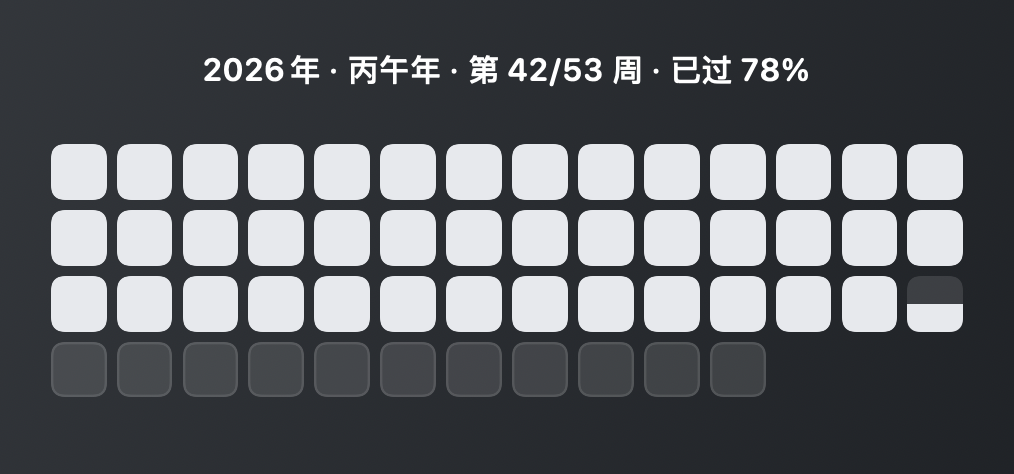
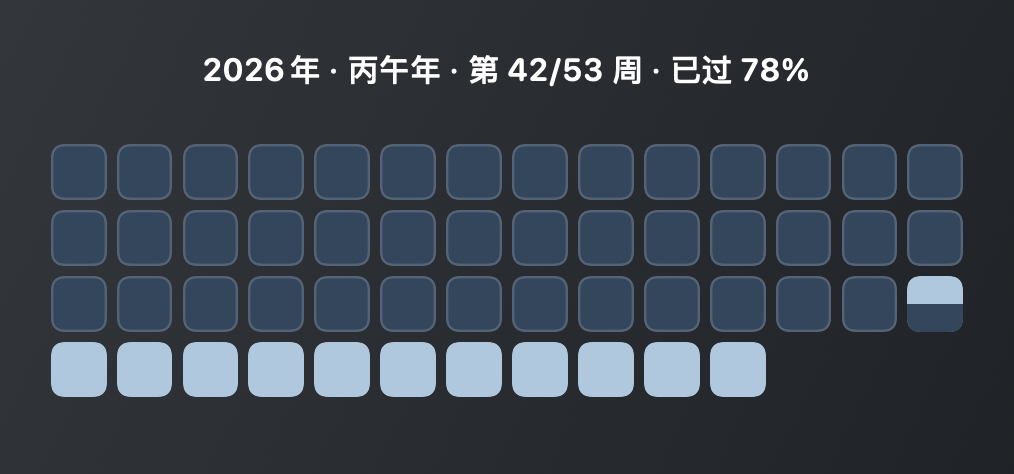
feat(widget): 小组件方块改用与面板相同的两种颜色

diff --git a/Sources/YearProgressUI/CardTheme.swift b/Sources/YearProgressUI/CardTheme.swift
@@ -48,7 +48,7 @@ public enum CardTheme: String, CaseIterable, Identifiable, Sendable {
         case .violet: return Color(red: 0.184, green: 0.118, blue: 0.341)   // #2F1E57 深梅子
         case .graphite: return Color(red: 0.200, green: 0.275, blue: 0.361) // #33465C 深石板蓝
         case .system: return .primary                                        // 深色模式下自动变白
-        case .slate: return Color(red: 0.906, green: 0.914, blue: 0.929)     // #E7E9ED 岩灰白
+        case .slate: return Color(red: 0.200, green: 0.275, blue: 0.361)     // #33465C 深石板蓝（同面板）
         }
     }
 
@@ -58,7 +58,7 @@ public enum CardTheme: String, CaseIterable, Identifiable, Sendable {
         case .violet: return Color(red: 0.812, green: 0.749, blue: 0.973)   // #CFBFF8 浅薰衣草
         case .graphite: return Color(red: 0.686, green: 0.784, blue: 0.871) // #AFC8DE 浅冰蓝
         case .system: return Color.primary.opacity(0.12)                     // 系统填充色
-        case .slate: return Color.white.opacity(0.12)                        // 暗底上的浅色填充
+        case .slate: return Color(red: 0.686, green: 0.784, blue: 0.871)     // #AFC8DE 浅冰蓝（同面板）
         }
     }
 
@@ -66,16 +66,15 @@ public enum CardTheme: String, CaseIterable, Identifiable, Sendable {
     public var pastStroke: Color? {
         switch self {
         case .violet: return nil
-        case .graphite: return Color.white.opacity(0.16)
-        case .system, .slate: return nil
+        case .graphite, .slate: return Color.white.opacity(0.16)
+        case .system: return nil
         }
     }
     /// 浅色块不需要描边（同色系之后不再「发胀」）。
     public var futureStroke: Color? {
         switch self {
         case .system: return Color.primary.opacity(0.14)
-        case .slate: return Color.white.opacity(0.10)
-        default: return nil
+        default: return nil        // graphite / slate：浅色块本身够亮，不需要描边
         }
     }
 

diff --git a/PLAN.md b/PLAN.md
@@ -172,7 +172,7 @@ public struct YearProgress {
   石墨主题另外给深色块加 1px 半透明描边，防止与卡片底色粘连。
 - 圆角：`s * 0.22`；间距随尺寸缩放，整体气质偏克制、无阴影堆叠。
 - 信息层：**顶部一行居中** —— 年份 · 干支 · `第 42/53 周` · `已过 78%`；跨年周时补一行小字。
-- **系统小组件固定用暗岩灰底色**（`#33363B → #202327`）+ 浅色方块，菜单里的主题/尺寸只作用于桌面挂件。
+- **系统小组件固定用暗岩灰底色**（`#33363B → #202327`）+ 与面板相同的方块色（`#33465C` / `#AFC8DE`），菜单里的主题/尺寸只作用于桌面挂件。
 - 桌面挂件的网格**复用系统中号小组件的行列**（`WidgetGridReference`，按 338×158 基准推算）：
   53 周 = 14 列 × 4 行（末行 11 块），52 周 = 13 列 × 4 行。
 - 桌面挂件默认 **小尺寸 330×161 + 石墨主题**，永久锚定主屏右上角（卡片距右/上各 24pt）；

diff --git a/README.md b/README.md
@@ -47,7 +47,7 @@ make spec       # 重新生成 spec/year-weeks.json（跨平台真值表）
 
 > **菜单里的主题 / 尺寸只作用于桌面挂件**。桌面挂件的网格行列**复用系统中号小组件的布局**
 > （53 周年份：14 列 × 4 行、末行 11 块；52 周年份：13 列 × 4 行），所以两边看起来是同一张表。
-> 系统小组件固定使用 **暗岩灰底色**（`#33363B → #202327`）+ 浅色方块，不跟面板的紫色/石墨联动。
+> 系统小组件固定使用 **暗岩灰底色**（`#33363B → #202327`）+ **与面板石墨主题同一对方块色**（`#33465C` / `#AFC8DE`），不跟面板的主题/尺寸联动。
 
 桌面挂件默认：**小尺寸 330×161 + 石墨主题**，并且**永远锚定在右上角**（卡片距屏幕右/上各 24pt）：
 改尺寸、关掉再打开、换屏幕/改分辨率都会重新贴回右上角，不会越用越偏。默认小尺寸长这样：
